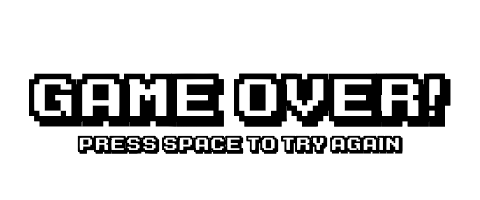
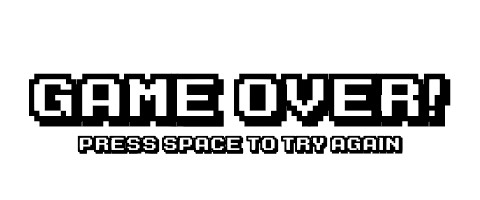
documentation

diff --git a/main.cpp b/main.cpp
@@ -43,7 +43,7 @@ int main()
 				game.window.close();
 		}
 
-		game.window.clear(sf::Color::Blue);
+		game.window.clear(sf::Color::Black);
 		game.update();
 		game.window.display();
 	}
